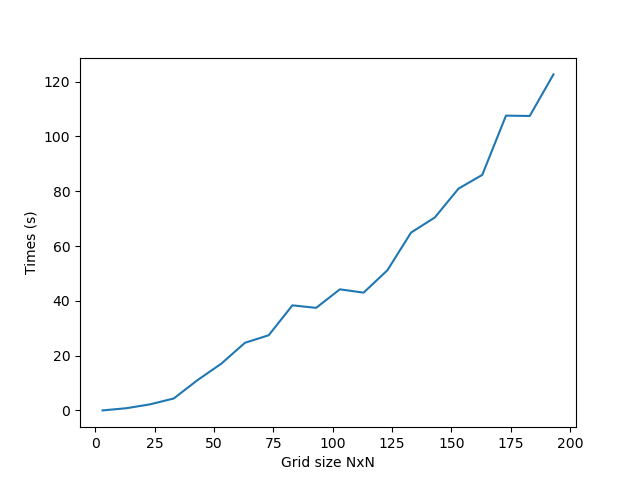
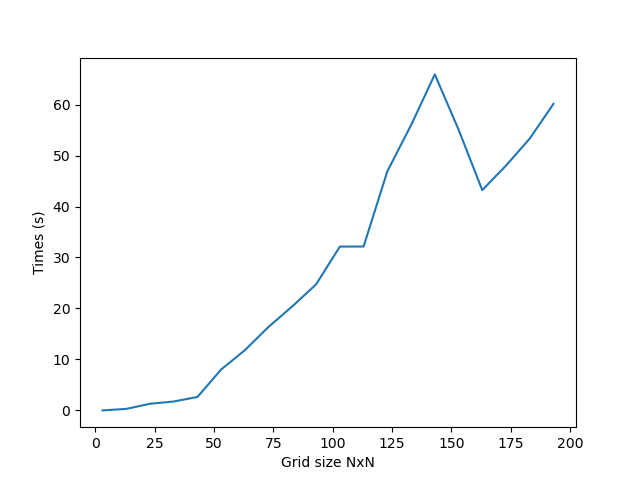
Replotted A3E2 task 1

diff --git a/Assignment 3/A3E2.py b/Assignment 3/A3E2.py
@@ -1,10 +1,10 @@
-import cythonfn
+# import cythonfn_numpy
 
 import numpy as np
 import matplotlib.pyplot as plt
 from timeit import default_timer as timer
 
-"""
+
 def gauss_seidel(f):
     newf = f.copy()
     
@@ -14,9 +14,21 @@ def gauss_seidel(f):
                                    newf[i+1,j] + newf[i-1,j])
     
     return newf
-"""
+
 
 if __name__ == '__main__':
+
+    # # Test individuals
+    # # Initialize grid
+    # x_1 = np.random.uniform(0,100, size = (40,40))
+    # x_2 = np.random.uniform(0,100, size = (40,40))
+    # # Set boundaries to zero
+    # x_1[:,np.r_[0,-1]]=0
+    # x_1[np.r_[0,-1],:]=0
+    # x_2[:,np.r_[0,-1]]=0
+    # x_2[np.r_[0,-1],:]=0
+
+    # # for i in range(1000):
 
     sizes = range(3,200,10)
     times = np.ones(len(sizes))
@@ -29,7 +41,7 @@ if __name__ == '__main__':
 
         start = timer()
         for j in range(1000):    
-            x = cythonfn.gauss_seidel(x)
+            x = gauss_seidel(x)
 
         if (size_ % 10 == 0) or (size_ % 3 == 0):
             print(f'Grid size {size_} done')
@@ -40,7 +52,3 @@ if __name__ == '__main__':
     plt.ylabel('Times (s)')
     plt.savefig("Assignment 3/A3E2_task_1_plot.png")
     plt.show()
-
-
-    # 20 = 2s
-    # 10*20 = 100*2s = 200
